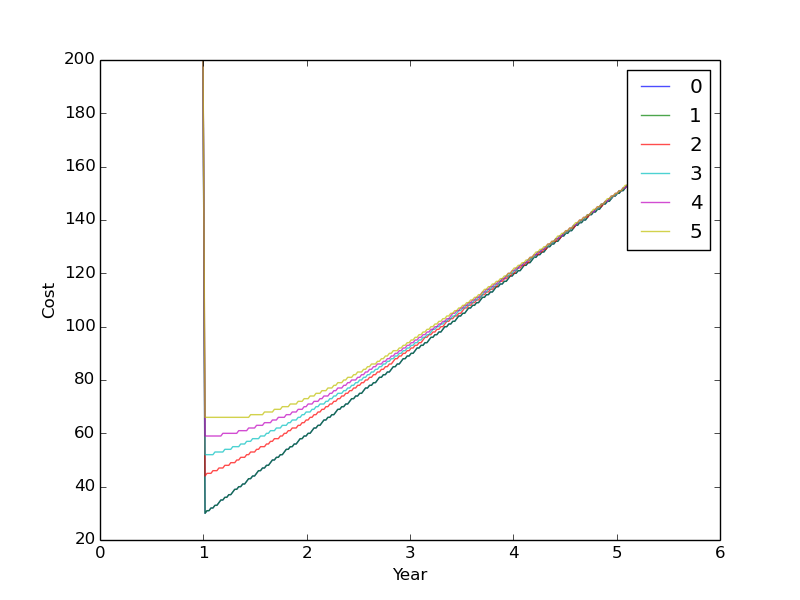
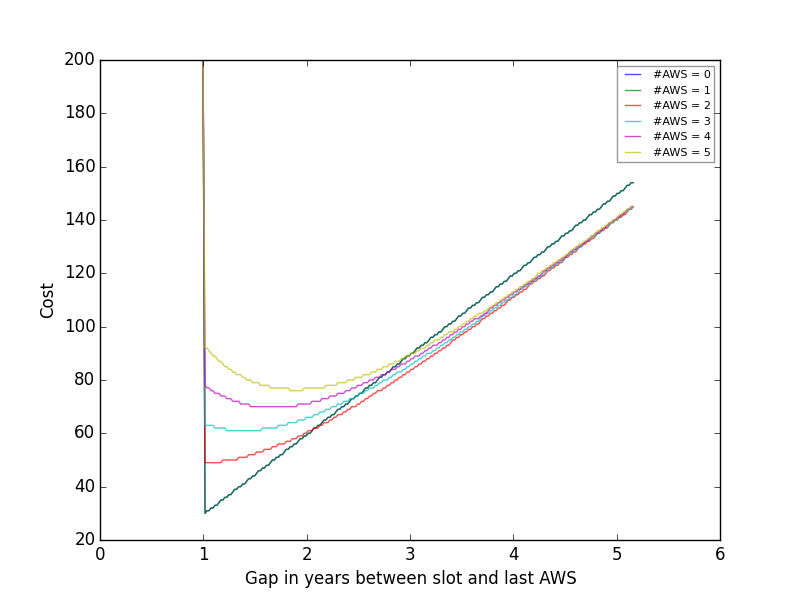
New function.

diff --git a/compute_cost.py b/compute_cost.py
@@ -28,7 +28,7 @@ def computeCost( slot_date, lastDate, nAWS ):
     else:
         cost = 3 * nyears 
         if nAWS > 1:
-            cost +=  (2 * nAWS) * math.exp( - nyears ) 
+            cost +=  (4 * nAWS) * math.exp( - nyears ) - 1.0
     return int(10 * cost)
 
 def random_date(start, end):
@@ -52,10 +52,10 @@ def test( ):
             date = start + datetime.timedelta( days = i * 7 )
             xval.append( (date - start).days / 365.0 )
             yval.append( computeCost( date, start, naws ) )
-        pylab.xlabel( 'Year' )
+        pylab.xlabel( 'Gap in years between slot and last AWS' )
         pylab.ylabel( 'Cost' )
-        pylab.plot( xval, yval, alpha = 0.7, label = '%s' % naws )
-        pylab.legend( )
+        pylab.plot( xval, yval, alpha = 0.7, label = '#AWS = %d' % naws )
+        pylab.legend( framealpha = 0.4, fontsize = 8 )
 
     pylab.savefig( "%s.png" % sys.argv[0] )
 
